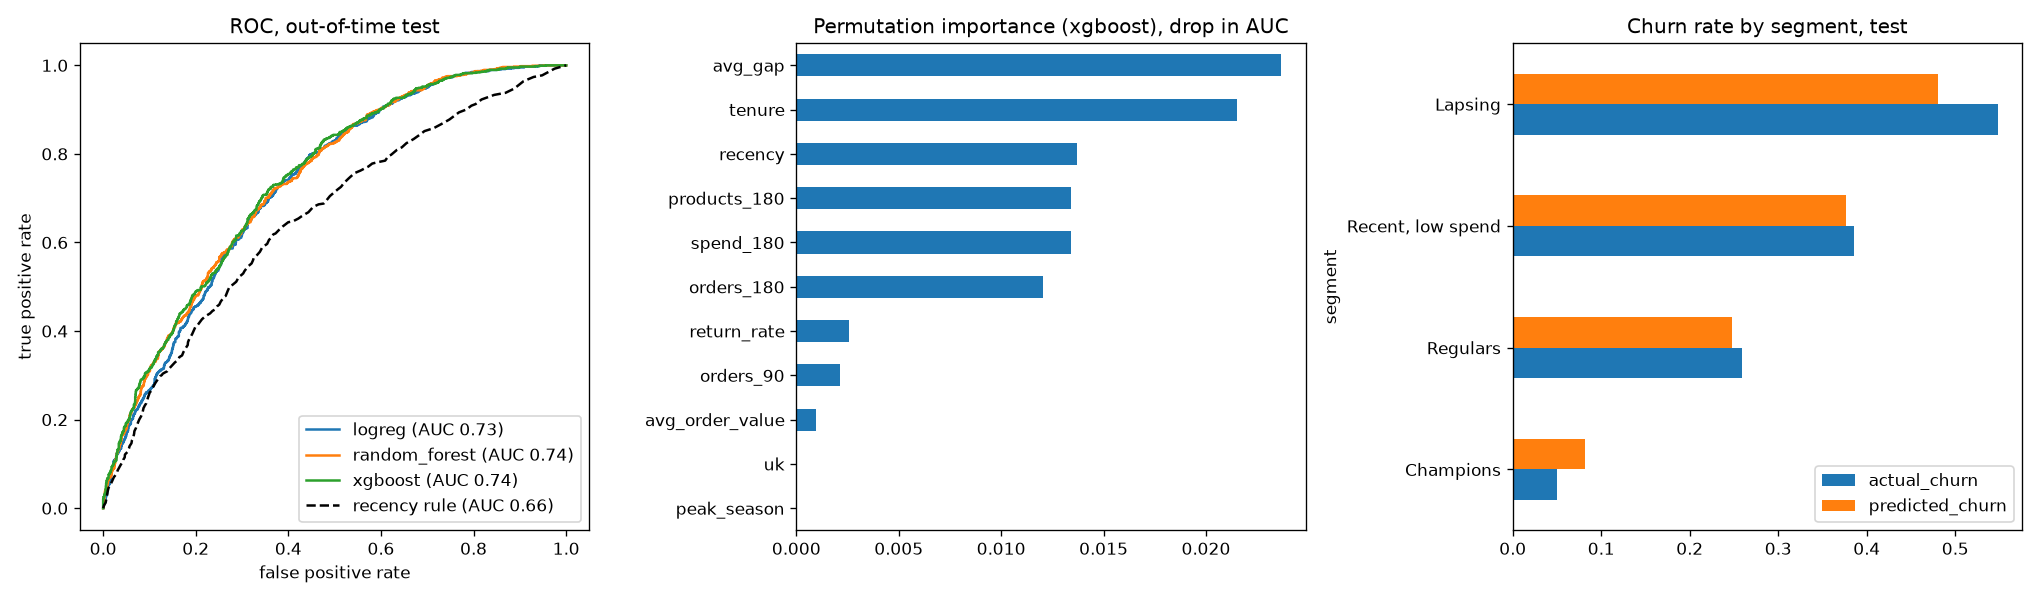
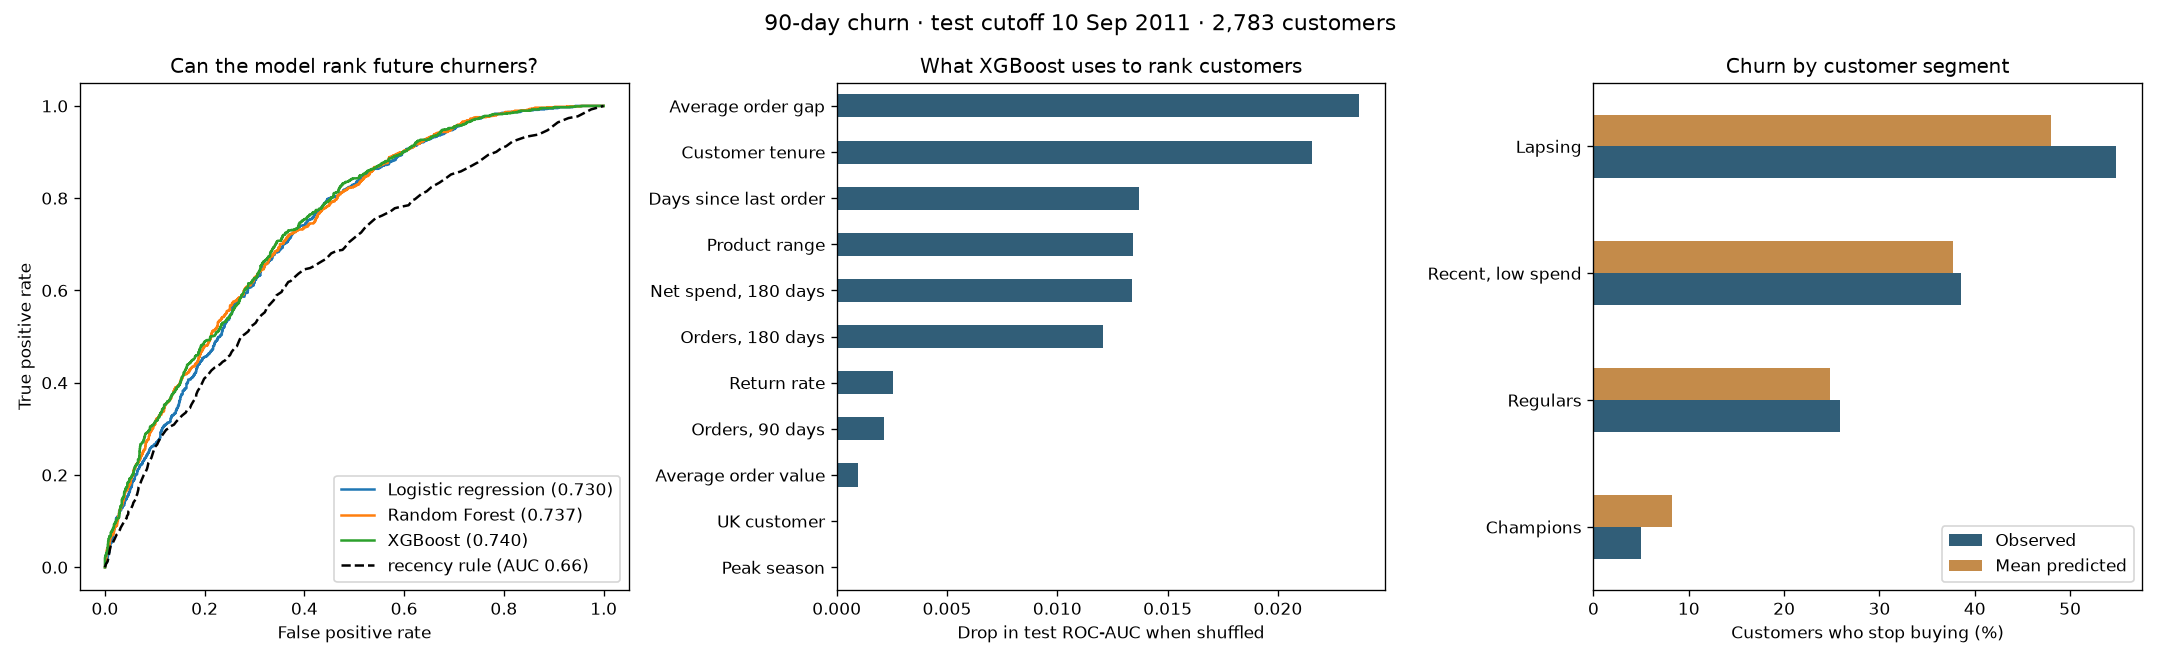
Clarify churn evaluation, refresh analysis and prepare publication

diff --git a/train.py b/train.py
@@ -192,22 +192,31 @@ def main():
     test_res.to_csv(out / "test_results.csv")
     segments.to_csv(out / "segments.csv")
     importance.to_csv(out / "feature_importance.csv", header=["roc_auc_drop"])
-    # Refit on train + test for scoring today's customers; the threshold stays the CV one.
+    # Refit on all labeled snapshots for end-of-dataset scoring; keep the CV threshold.
     full = pd.concat([train, test])
     final = models()[chosen].fit(full[FEATURES], full.churned)
     joblib.dump({"model": final, "name": chosen, "threshold": cv.loc[chosen, "threshold"],
                  "segmenter": seg, "segment_names": names}, models_dir / "churn.joblib")
 
-    fig, ax = plt.subplots(1, 3, figsize=(17, 5))
+    labels = {"logreg": "Logistic regression", "random_forest": "Random Forest", "xgboost": "XGBoost"}
+    feature_labels = dict(zip(FEATURES, ["Days since last order", "Customer tenure", "Orders, 90 days",
+        "Orders, 180 days", "Net spend, 180 days", "Average order value", "Product range",
+        "Average order gap", "Return rate", "UK customer", "Peak season"]))
+    fig, ax = plt.subplots(1, 3, figsize=(18, 5.5))
     for name, p in proba.items():
         fpr, tpr, _ = roc_curve(test.churned, p)
-        ax[0].plot(fpr, tpr, label=f"{name} (AUC {roc_auc_score(test.churned, p):.2f})")
+        ax[0].plot(fpr, tpr, label=f"{labels[name]} ({roc_auc_score(test.churned, p):.3f})")
     fpr, tpr, _ = roc_curve(test.churned, test.recency)
     ax[0].plot(fpr, tpr, "k--", label=f"recency rule (AUC {roc_auc_score(test.churned, test.recency):.2f})")
-    ax[0].set(title="ROC, out-of-time test", xlabel="false positive rate", ylabel="true positive rate")
+    ax[0].set(title="Can the model rank future churners?", xlabel="False positive rate", ylabel="True positive rate")
     ax[0].legend()
-    importance.plot.barh(ax=ax[1], title=f"Permutation importance ({chosen}), drop in AUC")
-    segments[["actual_churn", "predicted_churn"]].plot.barh(ax=ax[2], title="Churn rate by segment, test")
+    importance.rename(index=feature_labels).plot.barh(ax=ax[1], color="#315e78", title=f"What {labels[chosen]} uses to rank customers")
+    ax[1].set_xlabel("Drop in test ROC-AUC when shuffled")
+    (segments[["actual_churn", "predicted_churn"]] * 100).rename(
+        columns={"actual_churn": "Observed", "predicted_churn": "Mean predicted"}
+    ).plot.barh(ax=ax[2], color=["#315e78", "#c48b4a"], title="Churn by customer segment")
+    ax[2].set(xlabel="Customers who stop buying (%)", ylabel="")
+    fig.suptitle(f"90-day churn · test cutoff {test_cutoff:%d %b %Y} · {len(test):,} customers", fontsize=13)
     fig.tight_layout()
     fig.savefig(out / "churn.png", dpi=120)
 

diff --git a/score.py b/score.py
@@ -1,4 +1,4 @@
-"""Score today's active customers: churn probability, RFM segment, and who the retention team should call first.
+"""Score active customers at the dataset's end: churn probability, RFM segment and contact priority.
 
 Run after train.py: python score.py   (writes results/scores.csv)
 """
@@ -16,7 +16,7 @@ def main():
     X["p_churn"] = saved["model"].predict_proba(X[FEATURES])[:, 1]
     X["at_risk"] = (X.p_churn >= saved["threshold"]).astype(int)
     X["segment"] = pd.Series(saved["segmenter"].predict(X[RFM]), X.index).map(saved["segment_names"])
-    X["spend_at_risk"] = X.p_churn * X.spend_180  # expected loss if nothing is done; sort the call list by this
+    X["spend_at_risk"] = X.p_churn * X.spend_180  # priority score, not an estimate of future lost revenue
     out = X.sort_values("spend_at_risk", ascending=False)[
         ["segment", "p_churn", "at_risk", "recency", "orders_180", "spend_180", "spend_at_risk"]].round(3)
     out.to_csv(ROOT / "results" / "scores.csv", index_label="customer")
@@ -25,7 +25,7 @@ def main():
     print(out.groupby("segment").agg(customers=("p_churn", "size"), at_risk=("at_risk", "sum"),
                                      avg_p_churn=("p_churn", "mean"), spend_at_risk=("spend_at_risk", "sum"))
           .sort_values("spend_at_risk", ascending=False).round(2).to_string())
-    print("\nCall first: at-risk customers with the most expected spend at risk\n", out[out.at_risk == 1].head(10).to_string())
+    print("\nCall first: flagged customers ranked by probability-weighted historical spend\n", out[out.at_risk == 1].head(10).to_string())
 
 
 if __name__ == "__main__":

diff --git a/README.md b/README.md
@@ -1,102 +1,86 @@
-# Customer Churn Prediction and RFM Segmentation
+# Customer churn and RFM segmentation
 
-This project predicts which active customers of an online wholesaler will stop buying in the next 90 days, groups them into RFM segments, and produces a ranked call list for the retention team.
+Which customers are likely to stop ordering, and who should a retention team contact first?
 
-> This rebuilds, on public data, the churn and segmentation work I did as a Data Analyst at Think and Wash. The original work used internal company data that I can't share, so the metrics here come from the public data and differ from the original project's.
+Using two years of transactions from a UK online wholesaler, XGBoost reaches **0.740 ROC-AUC** on a later-quarter test, compared with **0.656** for a recency rule. Among the highest-risk 20% of customers, **64.7%** subsequently stop buying for 90 days.
 
-![Results](results/churn.png)
+This is a public-data rebuild of the churn and segmentation work I did as a Data Analyst at Think and Wash. Employer data is not included. The results below come from the public dataset, not the employment results on my resume.
 
-## Problem
+![Churn model comparison, feature importance and segment profiles](results/churn.png)
 
-A retention team can only contact a fraction of its customers, so it needs answers to three questions:
-- Who is likely to stop ordering?
-- Which of them are worth the effort?
-- What kind of offer fits each group?
+The [analysis notebook](notebooks/eda.ipynb) includes executed outputs. The [test results](results/test_results.csv), [segment profiles](results/segments.csv) and [ranked customer list](results/scores.csv) are available without running the code.
 
-The current rule of thumb is "no order in 90 days = churned". It catches customers only after they're already gone.
+## Data and cleaning
 
-## Data
+[UCI Online Retail II](https://archive.ics.uci.edu/dataset/502/online+retail+ii), December 2009 to December 2011: about 1.07 million invoice lines. The dataset is distributed under [CC BY 4.0](https://creativecommons.org/licenses/by/4.0/); source transactions are downloaded separately.
 
-[UCI Online Retail II](https://archive.ics.uci.edu/dataset/502/online+retail+ii) (CC BY 4.0) has 1.07M invoice lines from a UK online gift wholesaler, Dec 2009 – Dec 2011, across 5,875 identified customers in 41 countries.
+Dataset credit: Chen, D. (2012). *Online Retail II*. UCI Machine Learning Repository. [doi:10.24432/C5CG6D](https://doi.org/10.24432/C5CG6D). The cleaning steps below and customer-level outputs are transformations of that source.
 
-**Cleaning:**
-- **Duplicates:** 34K exact duplicate lines removed. 1–9 Dec 2010 appears in both Excel sheets, and some lines were scanned twice.
-- **No customer ID:** 235K lines (23%) are guest checkouts. They can't be tracked over time, so they're dropped.
-- **Non-product lines:** postage, fees, manual adjustments, bad-debt write-offs and test items, which aren't purchases.
-- **Net spend:** spend is measured after returns. One customer ordered £168K and cancelled the whole order the same day. Counted gross, that order would have topped the call list.
+The cleaning decisions matter to the call list:
 
-## Approach
+- Remove exact duplicates, including the overlap between the two workbook sheets.
+- Drop rows without a customer ID. Guest purchases cannot be linked over time.
+- Exclude postage, fees, adjustments and test items.
+- Keep returns and subtract them from spend. One customer placed and cancelled a £168,000 order on the same day; gross spend would give that customer an inflated priority.
 
-**1. A leakage-safe churn label.** Each snapshot takes a cutoff date and the customers who bought in the 180 days before it.
-- **Features** use only those 180 days.
-- **Label:** `churned = 1` if the customer places no order in the next 90 days.
-- [test_churn.py](test_churn.py) checks the rule: transactions after the cutoff never change a feature.
+## Evaluation
 
-**2. An out-of-time test.** Snapshots are taken every 90 days.
-- **Test:** the last one with a complete label window (cutoff 10 Sep 2011, 2,783 customers).
-- **Train:** the five quarters before it (14,869 customer-snapshots).
-- **Cross-validation:** folds are grouped by customer, because the same customer appears in several snapshots.
+An active customer has bought in the **180 days before a cutoff**. Features describe that history; the label is whether they make **no purchase in the following 90 days**. Returns alone do not count as a purchase. The [snapshot test](test_churn.py) checks date boundaries and verifies that future transactions cannot change past features.
 
-**3. Seasonality.** Churn depends on the season. Customers stock up before Christmas, so churn in the Sep–Dec window is 38–39%, against 50–65% in the other quarters. The training data includes the same quarter a year earlier, plus a `peak_season` flag, so the model doesn't over-flag customers in peak season. My first version lacked this, and its accuracy was below the simple rule.
+The final test cutoff is **10 September 2011**, with 2,783 customers and a 38.2% churn rate. Training uses five earlier snapshots, 90 days apart, totalling 14,869 customer-snapshots. Their label windows finish by the test cutoff. Customers can appear in both periods, as they would when rescoring an existing customer base.
 
-**4. Models.** Logistic regression, Random Forest and XGBoost run in sklearn pipelines (imputation, plus log-scaling for LogReg) on 11 features: recency, tenure, order counts, net spend, average order value, product range, gap between orders, return rate, UK flag and season. Model selection uses cross-validated ROC-AUC. The decision threshold is the cross-validated F1 optimum, fixed before the test.
+Logistic regression, Random Forest and XGBoost use the same 11 features. Training cross-validation uses five folds grouped by customer, so one customer's snapshots stay in one fold. Model selection uses ROC-AUC; the classification threshold maximizes F1 on out-of-fold training predictions. Both choices are fixed before evaluating the test quarter. These grouped folds mix training periods; the later-quarter holdout is the temporal check.
 
-**5. Segmentation.** K-means runs on log-scaled recency, frequency and monetary value. I used k = 4: silhouette is highest at k = 2, but that only splits active from lapsed customers. Among k ≥ 3, k = 4 scores best, and each segment maps to a different action.
+Churn is 38–39% in the September–December windows, against 50–65% in other quarters. Training includes the previous year's comparable period and a calendar-based `peak_season` feature. With only two years of history, this is limited evidence of how seasonality will generalize.
 
-## Results
+| Model | ROC-AUC | F1 | Precision | Recall | Accuracy | Precision in top 20% |
+|---|---:|---:|---:|---:|---:|---:|
+| Always predict churn | 0.500 | 0.553 | 0.382 | 1.000 | 0.382 | 0.371 |
+| No order in 90 days | 0.656 | 0.488 | 0.539 | 0.445 | 0.642 | 0.586 |
+| Logistic regression | 0.730 | 0.623 | 0.530 | 0.757 | 0.650 | 0.601 |
+| Random Forest | 0.737 | 0.619 | 0.537 | 0.732 | 0.656 | 0.644 |
+| **XGBoost, selected by training CV** | **0.740** | **0.605** | **0.564** | **0.652** | **0.674** | **0.647** |
 
-Out-of-time test, Sep–Dec 2011 (38.2% churned):
+The constant baseline predicts the training majority class, which is churn. It has no useful ranking; its top-20% precision depends on tie order. Always predicting that customers stay would reach 61.8% accuracy in the test quarter. Accuracy alone is therefore a poor reason to choose a model.
 
-| Model | ROC-AUC | F1 | Precision | Recall | Accuracy | Precision, top 20% |
-|---|---|---|---|---|---|---|
-| Always predict churn | 0.50 | 0.55 | 0.38 | 1.00 | 0.38 | 0.37 |
-| Rule: no order in 90 days | 0.66 | 0.49 | 0.54 | 0.45 | 0.64 | 0.59 |
-| Logistic regression | 0.73 | 0.62 | 0.53 | 0.76 | 0.65 | 0.60 |
-| Random Forest | 0.74 | 0.62 | 0.54 | 0.73 | 0.66 | 0.64 |
-| **XGBoost (chosen by CV)** | **0.74** | **0.61** | **0.56** | **0.65** | **0.67** | **0.65** |
+The three fitted models are close. XGBoost was selected before the test, but Random Forest has a slightly higher test F1. Logistic regression is a reasonable option when simpler explanations matter more than the small AUC difference.
 
-In cross-validation on the training quarters, XGBoost scored ROC-AUC 0.76, F1 0.75 and accuracy 0.69. Accuracy isn't the headline metric here: predicting "stays" for everyone would score 62% on the test quarter.
+## What the retention team could use
 
-**Findings:**
-- **Most churners still look active.** 590 of the 1,064 test churners (55%) had ordered in the last 90 days, so the rule can never flag them. The model catches 307 of them (52%), and 51% of the customers it flags in that group really do churn.
-- **Order rhythm and tenure matter most.** By permutation importance, the strongest signals are the usual gap between orders and how long the customer has been buying, ahead of recency. Customers first seen less than 6 months ago churn at about 63%, against 42% for established ones.
-- **The models are close.** The three models are within 0.01 AUC of each other. Logistic regression is a reasonable choice if explainability matters more than the last point of AUC.
+The recency rule misses **590 of the 1,064 churners** because they had ordered within the last 90 days. The selected model catches 307 of those recent buyers. Order rhythm and tenure are its strongest ranking signals by permutation importance.
 
-**Segments (test quarter):**
+RFM segmentation uses log-scaled recency, order count and net spend. Four clusters give usable groups; silhouette is highest at two clusters, but among three to eight clusters, four scores best. The segment fit is descriptive, using test-period features without churn labels.
 
-| Segment | Customers | Median recency | Median orders (6 mo) | Share of net spend | Actual churn | Action |
-|---|---|---|---|---|---|---|
-| Champions | 301 | 8 days | 8 | 53% | 5% | Protect: account manager, early access |
-| Regulars | 887 | 44 days | 3 | 32% | 26% | **Call list:** largest spend at risk |
-| Recent, low spend | 337 | 7 days | 2 | 6% | 39% | Second-order offer. A recency rule calls them safe. |
-| Lapsing | 1,258 | 103 days | 1 | 10% | 55% | Cheap automated win-back email |
+| Segment | Customers | Median recency | Share of net spend | Observed churn | Possible action |
+|---|---:|---:|---:|---:|---|
+| Champions | 301 | 8 days | 52.6% | 5.0% | Account support and loyalty benefits |
+| Regulars | 887 | 44 days | 31.5% | 25.9% | Prioritize valuable customers flagged at risk |
+| Recent, low spend | 337 | 7 days | 5.7% | 38.6% | Test a second-order offer |
+| Lapsing | 1,258 | 103 days | 10.2% | 54.8% | Lower-cost win-back campaign |
 
-**Scoring.** [score.py](score.py) scores the 3,471 customers active at the end of the data. It ranks the at-risk customers by expected spend at risk (churn probability × 6-month net spend) and writes `results/scores.csv`. Regulars hold the largest expected spend at risk, about £517K.
+[score.py](score.py) loads the saved model and scores **3,471 customers** as of the day after the dataset ends. It sorts by churn probability multiplied by historical six-month net spend. **This is a prioritization heuristic, not a forecast of revenue lost or evidence that a call prevents churn.** Filter `at_risk == 1` for the suggested call list. This file is a historical example, not a live customer feed.
 
-## How to run
+## Run locally
 
-Tested with Python 3.12. Download `online_retail_II.xlsx` from the UCI link above into `data/`.
+Tested with Python 3.12. From the repository root:
 
 ```bash
-pip install -r requirements.txt
-python test_churn.py   # leakage check, prints "ok"
-python train.py        # ~15 s after the first run, which spends ~45 s converting the xlsx to CSV
-python score.py        # today's call list -> results/scores.csv
+python3 -m venv .venv
+source .venv/bin/activate
+python -m pip install -r requirements.txt
+python test_churn.py
+mkdir -p data
 ```
 
-[notebooks/eda.ipynb](notebooks/eda.ipynb) walks through cleaning, the seasonality problem, churn drivers, where the model beats the rule, and the segments.
+Download `online_retail_II.xlsx` from the UCI page into `data/`, then run:
 
-## Files
+```bash
+python train.py
+python score.py
+```
 
-| File | What it does |
-|---|---|
-| [train.py](train.py) | Loads and cleans the data, builds snapshots, cross-validates 3 models against baselines, runs the out-of-time test and segmentation, and saves `models/churn.joblib` and `results/` |
-| [score.py](score.py) | Scores current customers and writes the ranked call list |
-| [test_churn.py](test_churn.py) | Checks the no-leakage rule for features and labels |
-| [notebooks/eda.ipynb](notebooks/eda.ipynb) | Analysis and reasoning behind each choice |
+Training creates `models/churn.joblib`, evaluation CSVs and the chart in `results/`. The first run also caches the Excel data as CSV. Raw data, the virtual environment and trained model are ignored by Git. To explore the notebook, install Jupyter separately in the same environment, then run all cells after training.
 
-## What I'd do next
+## Limits
 
-- **Measure uplift, not just risk.** Run an A/B test on the call list. A customer at high risk isn't necessarily one a call can save.
-- **Recalibrate every quarter.** Churn levels shift with the season. Retrain each quarter and track predicted vs actual churn by segment.
-- **Add product-level signals.** Category mix and price sensitivity could help with wholesale buyers.
+One later quarter is not enough to establish performance across seasons. A useful next check is repeated temporal holdouts, followed by calibration checks before using probabilities for decisions. The model predicts inactivity, not whether an intervention will work; that needs a controlled retention experiment. The public dataset also differs from a laundry business in purchase frequency and customer behavior.
